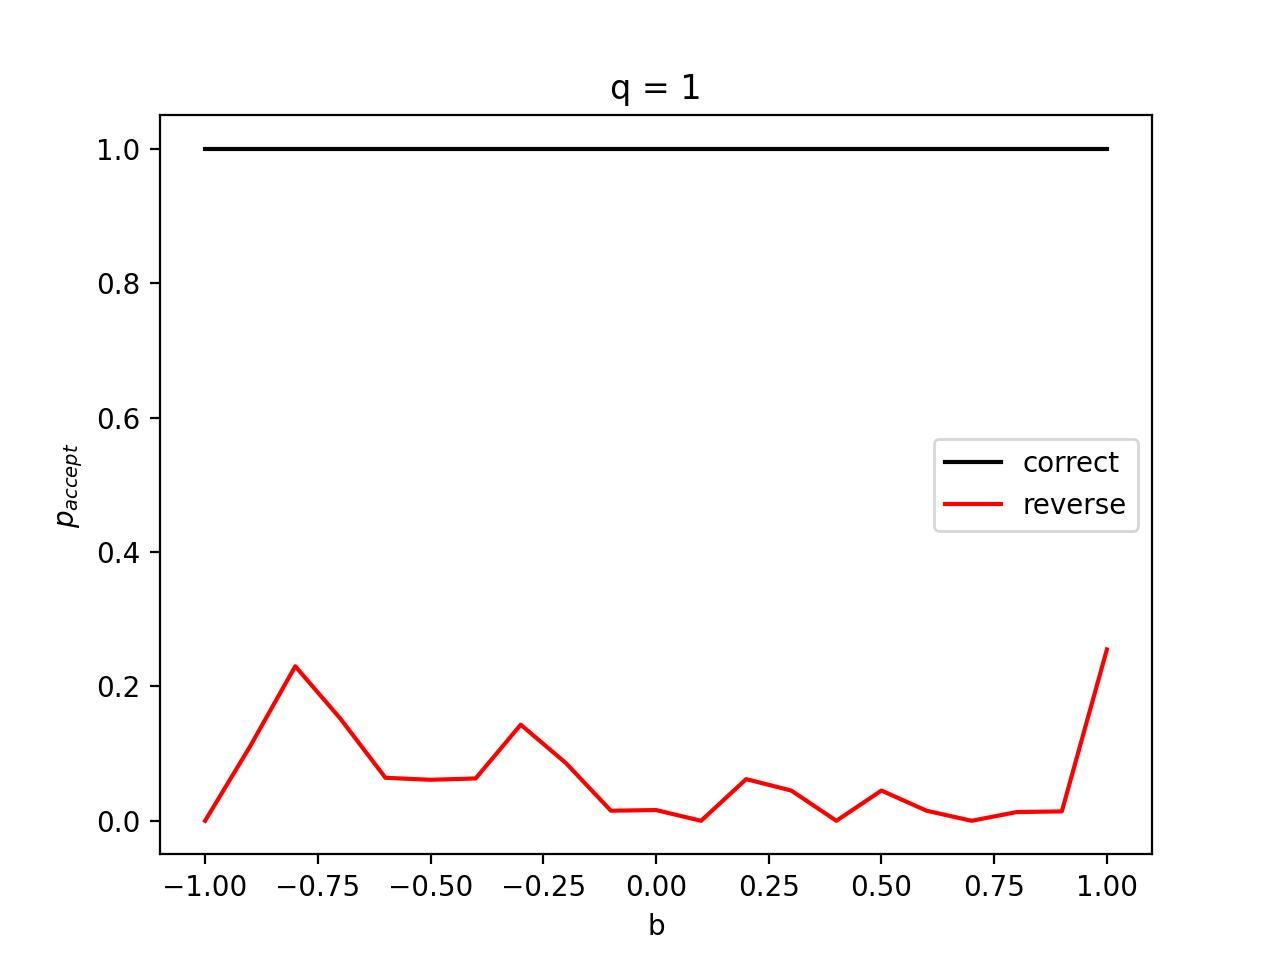
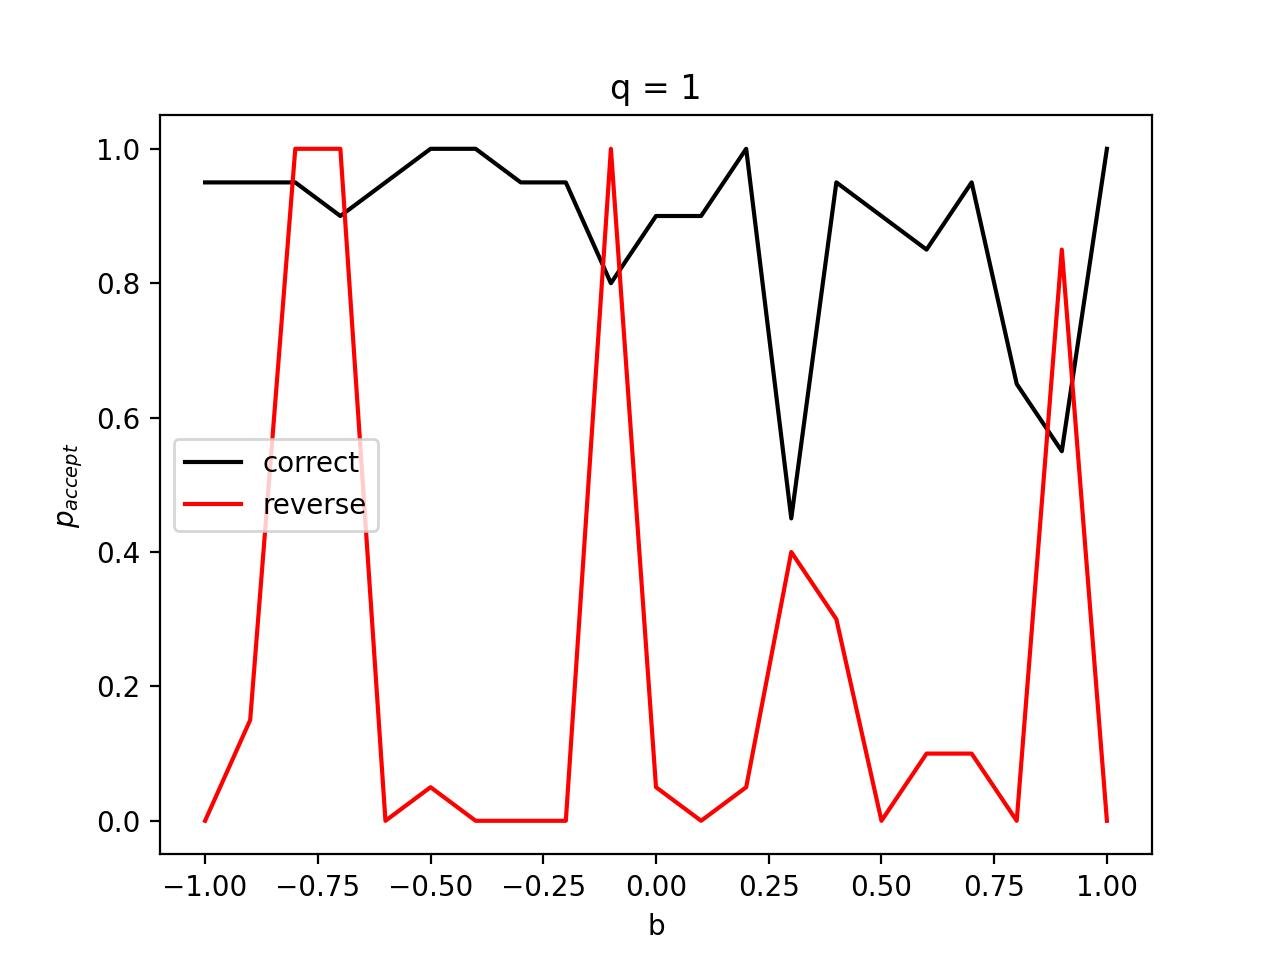
Fixed some bugs

diff --git a/causal-learn-trails/anm-expriments.py b/causal-learn-trails/anm-expriments.py
@@ -13,11 +13,6 @@ import threading
 import time
 import numpy as np
 import matplotlib.pyplot as plt
-from sklearn.gaussian_process import GaussianProcessRegressor
-from sklearn.gaussian_process.kernels import ConstantKernel as C
-from sklearn.gaussian_process.kernels import RBF, WhiteKernel
-from sklearn.model_selection import train_test_split
-from Experiments.HSIC import hsic_gam
 from concurrent.futures import ThreadPoolExecutor
 from causallearn.search.FCMBased.ANM.ANM import ANM
 def create_simulated_data(m=300, b=1, q=1, is_visualized=True):
@@ -27,12 +22,7 @@ def create_simulated_data(m=300, b=1, q=1, is_visualized=True):
         return y
 
     # 定义形状参数
-    # beta_values = np.linspace(1, 3, 30)
-    q += 1
-    np.random.seed(42)
     # 生成具有不同峰度的随机数
-    # random_nums4x = [stats.gennorm.rvs(beta, loc=0, scale=1, size=1000, random_state=42) for beta in beta_values]
-    # random_nums4x = stats.gennorm.rvs(q, loc=0, scale=1, size=1000, random_state=42)
     x = np.random.normal(0, 1, size=(m, 1))
     n = np.random.normal(0, 1, size=(m, 1))
     absolute_value_x = np.where(x > 0, 1, -1)
@@ -66,50 +56,50 @@ def multi_repetition(times, repetition_num, b, q, is_visualized, forward, backwa
         if p_value_backward >= 0.02:
             backward += 1
         times += 1
-    proportion.append([q, round(forward/(forward+0.00001), 3), round(backward/(forward+0.00001), 3)])
+    proportion.append([q, round(forward/(repetition_num), 3), round(backward/(repetition_num), 3)])
 
 
 # data_x, data_y = create_simulated_data(b=1, q=1, is_visualized=False)
 
 
 
-# # The first panel
-# is_visualized = False
-# b = 0
-# nums = np.arange(0.5, 2.001, 0.05)  # q
-# proportion = []
-# repetition_num = 100
-# with ThreadPoolExecutor(max_workers=20) as executor:
-#     start = time.time()
-#     for q in nums:
-#         q = round(q, 3)
-#         times = 1
-#         forward = 0
-#         backward = 0
-#         future = executor.submit(multi_repetition, times, repetition_num, b, q, is_visualized, forward, backward)
-#     with tqdm(total=100, desc='Progress', unit='iteration') as pbar:
-#         while not future.done():
-#             pbar.update(1)
-#             time.sleep(0.1)
-#
-# print(f">> 执行用时: {time.time()-start}s")
-# plt.figure()
-# proportion.sort(key=lambda x: x[0])
-# plt.plot(nums, np.array(proportion)[:, 1:2], 'k', label='correct')
-# plt.plot(nums, np.array(proportion)[:, 2:], 'r', label='reverse')
-# plt.xlabel('q')
-# plt.ylabel('$p_{accept}$')
-# plt.title(f'b = 0')
-# plt.legend()
-# plt.savefig('b0_q05-20.jpg', dpi=200)
-# plt.show()
+# The first panel
+is_visualized = False
+b = 0
+nums = np.arange(0.5, 2.001, 0.05)  # q
+proportion = []
+repetition_num = 20
+with ThreadPoolExecutor(max_workers=20) as executor:
+    start = time.time()
+    for q in nums:
+        q = round(q, 3)
+        times = 1
+        forward = 0
+        backward = 0
+        future = executor.submit(multi_repetition, times, repetition_num, b, q, is_visualized, forward, backward)
+    with tqdm(total=None, desc='Progress', unit='iteration') as pbar:
+        while not future.done():
+            pbar.update(1)
+            time.sleep(0.1)
+
+print(f">> 执行用时: {time.time()-start}s")
+plt.figure()
+proportion.sort(key=lambda x: x[0])
+plt.plot(nums, np.array(proportion)[:, 1:2], 'k', label='correct')
+plt.plot(nums, np.array(proportion)[:, 2:], 'r', label='reverse')
+plt.xlabel('q')
+plt.ylabel('$p_{accept}$')
+plt.title(f'b = 0')
+plt.legend()
+plt.savefig('b0_q05-20.jpg', dpi=200)
+plt.show()
 
 #
 is_visualized = False
 q = 1
 nums = np.arange(-1, 1.1, 0.05)
 proportion = []
-repetition_num = 100
+repetition_num = 20
 with ThreadPoolExecutor(max_workers=20) as executor:
     for b in nums:
         b = round(b, 3)
@@ -117,7 +107,7 @@ with ThreadPoolExecutor(max_workers=20) as executor:
         forward = 0
         backward = 0
         future = executor.submit(multi_repetition, times, repetition_num, b, q, is_visualized, forward, backward)
-    with tqdm(total=100, desc='Progress', unit='iteration') as pbar:
+    with tqdm(total=None, desc='Progress', unit='iteration') as pbar:
         while not future.done():
             pbar.update(1)
             time.sleep(0.1)

diff --git a/ANM/anm_repetition_multithreading.py b/ANM/anm_repetition_multithreading.py
@@ -19,7 +19,6 @@ from sklearn.model_selection import train_test_split
 from Experiments.HSIC import hsic_gam
 from concurrent.futures import ThreadPoolExecutor
 
-np.random.seed(42)
 # create datas
 def create_simulated_data(m=300, b=1, q=1, is_visualized=True):
     def f(x):
@@ -29,7 +28,7 @@ def create_simulated_data(m=300, b=1, q=1, is_visualized=True):
 
     # 生成具有不同峰度的随机数
     x = np.random.normal(0, 1, size=(m, 1))
-    n = np.random.normal(0, 1, size=(m, 1)) * 0.01
+    n = np.random.normal(0, 1, size=(m, 1))
     absolute_value_x = np.where(x > 0, 1, -1)
     absolute_value_n = np.where(n > 0, 1, -1)
     x = np.abs(x) ** q
@@ -51,12 +50,11 @@ def create_simulated_data(m=300, b=1, q=1, is_visualized=True):
     return data_set
 
 
-def get_an_estimate_model(data, is_split=True, to_ward="forward", is_visualized=True):
+def get_an_estimate_model(data, is_split=False, to_ward="forward", is_visualized=True):
     kernel = C(1.0, (1e-4, 1e4)) * RBF(10, (1e-3, 1e3)) + WhiteKernel(0.1, (1e-10, 1e+1))
-    gp = GaussianProcessRegressor(kernel=kernel, n_restarts_optimizer=0, random_state=42)
+    gp = GaussianProcessRegressor(kernel=kernel, n_restarts_optimizer=0)
     if is_split:
-        X_train, X_test, y_train, y_test = train_test_split(data[:, :1], data[:, 1:], shuffle=True, test_size=.2,
-                                                            random_state=42)
+        X_train, X_test, y_train, y_test = train_test_split(data[:, :1], data[:, 1:], shuffle=True, test_size=.2)
     else:
         X_train, y_train = data[:, :1], data[:, 1:]
     # fit model
@@ -93,7 +91,7 @@ def get_an_estimate_model(data, is_split=True, to_ward="forward", is_visualized=
     return n_hat, X
 
 
-def ANM(data_, is_split=False, is_visualized=True):
+def ANM(data_, is_split=True, is_visualized=True):
     """
     this function is used as a model(ANM) to discovery the causality between x and y
     1, test whether x and y are statistically independent if not
@@ -144,21 +142,22 @@ def multi_repetition(times, repetition_num, b, q, is_visualized, forward, backwa
     # print("表示我正在运行，", b, q)
     while times <= repetition_num:
         dataset = create_simulated_data(b=b, q=q, is_visualized=is_visualized)
-        result = ANM(dataset, is_split=True, is_visualized=is_visualized)
+        result = ANM(dataset, is_split=False, is_visualized=is_visualized)
         if "forward" in result:
             forward += 1
         if "backward" in result:
             backward += 1
         times += 1
-    proportion.append([q, round(forward/(forward+0.00001), 3), round(backward/(forward+0.00001), 3)])
+    proportion.append([q, round(forward/(repetition_num), 3), round(backward/(repetition_num), 3)])
 
+
+repetition_num = 100
 
 # The first panel
 is_visualized = False
 b = 0
-nums = np.arange(0.5, 2.001, 0.05)  # q
+nums = np.arange(0.5, 2.001, 0.1)  # q
 proportion = []
-repetition_num = 100
 with ThreadPoolExecutor(max_workers=20) as executor:
     start = time.time()
     for q in nums:
@@ -183,11 +182,9 @@ plt.savefig('b0_q05-20.jpg', dpi=200)
 plt.show()
 
 # The second panel
-is_visualized = False
 q = 1
 nums = np.arange(-1, 1.1, 0.1)
 proportion = []
-repetition_num = 100
 with ThreadPoolExecutor(max_workers=20) as executor:
     for b in nums:
         b = round(b, 3)

diff --git a/ANM/create data demo.py b/ANM/create data demo.py
@@ -56,24 +56,40 @@ import numpy as np
 from tqdm import tqdm
 import scipy.stats as stats
 import matplotlib.pyplot as plt
-import matplotlib
-matplotlib.use('TkAgg')
+def create_simulated_data(m=800, b=1, q: int or np.array = 1, is_visualized=True):
 
-# 定义形状参数
-beta_values = np.linspace(1, 3, 30)
+    # 生成具有不同峰度的随机数
+    x = np.random.normal(0, 1, size=(m, 1))
+    absolute_value_x = np.where(x > 0, 1, -1)
+    bins = np.linspace(-4, 4, 100)
+    for qi in q:
+        xi = np.abs(x) ** qi * absolute_value_x
+        plt.hist(xi, bins=bins, alpha=0.3, label=f'q={round(qi, 3)}')
+        plt.legend(loc='upper right', bbox_to_anchor=(1, 1), prop={'size': 10}, frameon=False)
+        plt.ylim(0, 60)
+    plt.title("sub2super-Gaussian_dist")
+    plt.savefig("sub2super-Gaussian_dist.jpg", dpi=200)
+    plt.show()
 
-# 生成具有不同峰度的随机数
-random_numbers = [stats.gennorm.rvs(beta, loc=0, scale=1, size=1000, random_state=42) for beta in beta_values]
-plt.figure(figsize=(10, 9))
-# 创建直方图
-for i, numbers in enumerate(random_numbers):
-    # print(len(numbers))# 定义箱子边缘
-    bins = np.linspace(-8, 8, 50)
-    plt.hist(numbers, bins=bins, alpha=0.3, label=f'beta={round(beta_values[i], 2)}')
+q = np.arange(0.5, 2.001, 0.3)
 
-# 添加图例和标题
-plt.legend(loc='upper right', bbox_to_anchor=(1, 1), prop={'size': 10}, frameon=True)
-plt.title('Histogram of Random Numbers with Different Kurtosis')
+create_simulated_data(q=q)
 
-# 显示图形
-plt.show()
+# # 定义形状参数
+# beta_values = np.linspace(1, 3, 30)
+#
+# # 生成具有不同峰度的随机数
+# random_numbers = [stats.gennorm.rvs(beta, loc=0, scale=1, size=1000, random_state=42) for beta in beta_values]
+# plt.figure(figsize=(10, 9))
+# # 创建直方图
+# for i, numbers in enumerate(random_numbers):
+#     # print(len(numbers))# 定义箱子边缘
+#     bins = np.linspace(-8, 8, 50)
+#     plt.hist(numbers, bins=bins, alpha=0.3, label=f'beta={round(beta_values[i], 2)}')
+#
+# # 添加图例和标题
+# plt.legend(loc='upper right', bbox_to_anchor=(1, 1), prop={'size': 10}, frameon=True)
+# plt.title('Histogram of Random Numbers with Different Kurtosis')
+#
+# # 显示图形
+# plt.show()

diff --git a/ANM/anm_repetition.py b/ANM/anm_repetition.py
@@ -168,7 +168,7 @@
 # plt.title(f'b = 0')
 # plt.legend()
 # plt.show()
-# plt.savefig('b0_q05-20.jpg', dpi=200)
+# plt.savefig('b0_q05-20_perfect.jpg', dpi=200)
 # # print("The result is:", result)
 #
 # # The second panel
